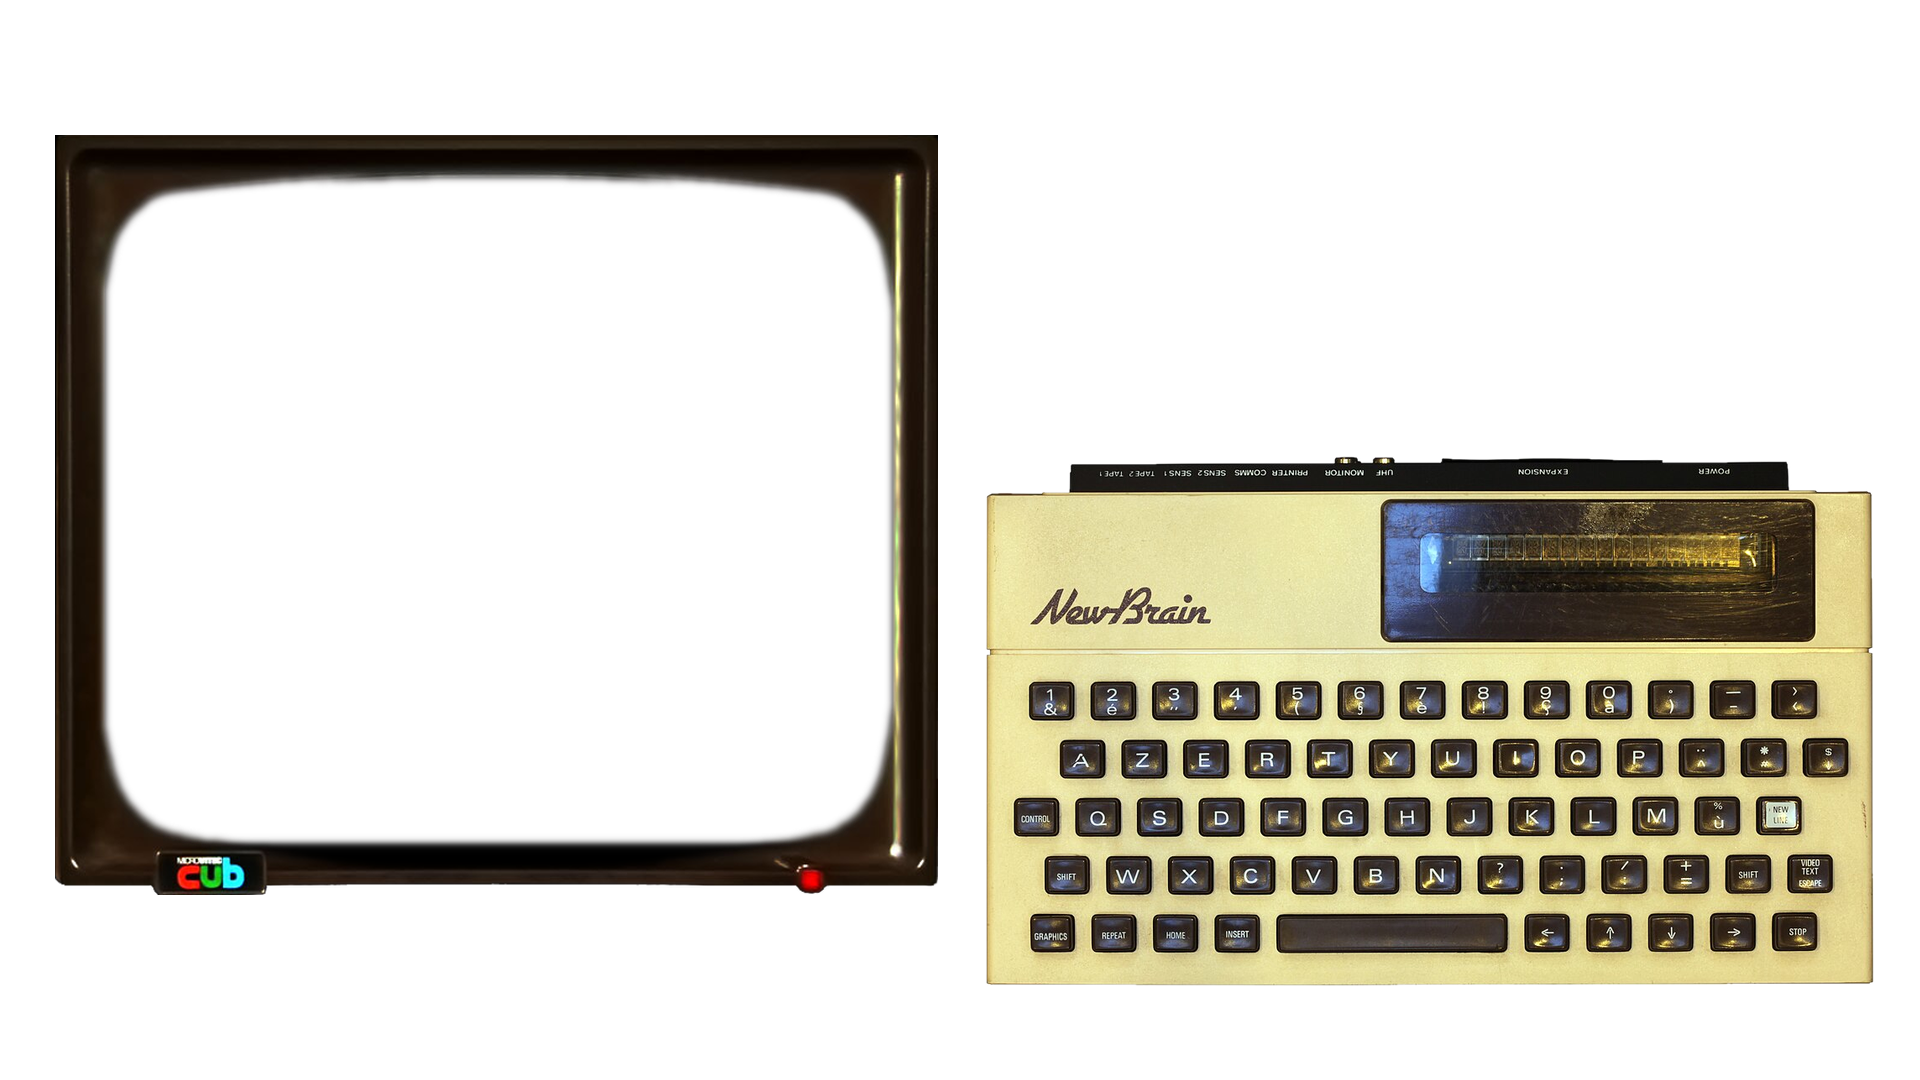
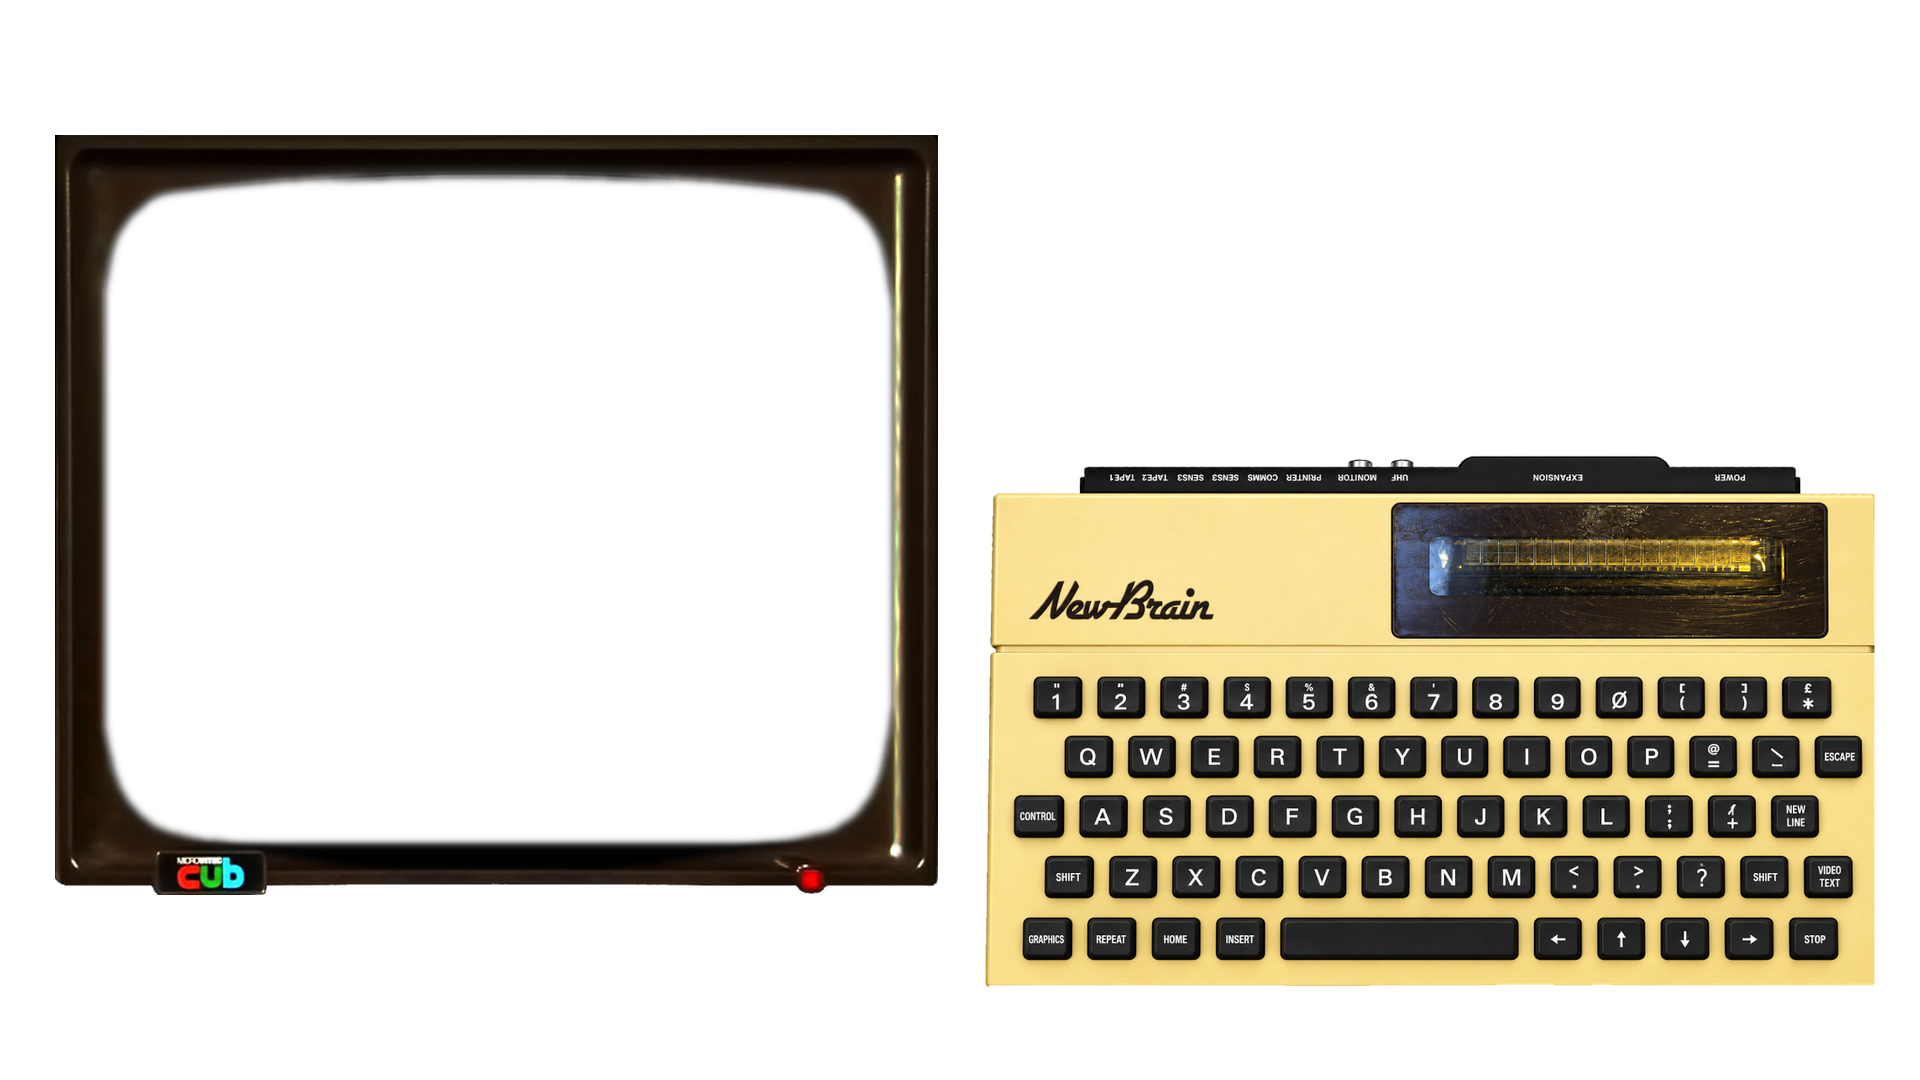
Show an English keyboard on the machine
The photograph the artwork was built from is a French NewBrain: AZERTY across
the top row and QSDFGHJKLM below it. The emulator maps a QWERTY matrix, so the
picture was quietly teaching the wrong layout to anyone reading the keys off
it rather than their own keyboard.

The replacement keeps the same photograph's body and VF tube, so the measured
regions come out byte-identical and nothing else shifts.

Changed region(s): [[0.5, 0.3972, 1.0, 0.9167]]

diff --git a/CHANGELOG.md b/CHANGELOG.md
@@ -73,6 +73,10 @@ versions follow [Semantic Versioning](https://semver.org/spec/v2.0.0.html).
   block. `save...` on the deck downloads it, named after the tape's own name
   block. Verified by saving a program and loading the result into a fresh
   machine, which lists it back unchanged.
+- Machine artwork shows an English keyboard. The photograph it had been built
+  from is a French machine — AZERTY, with QSDFGHJKLM beneath — so the picture
+  was teaching a layout the emulator does not map. The VF tube is unchanged,
+  and the measured regions come out identical, so nothing else moved.
 - Node test suite covering the memory map, boot, rendering and the COP.
 
 ### Fixed
